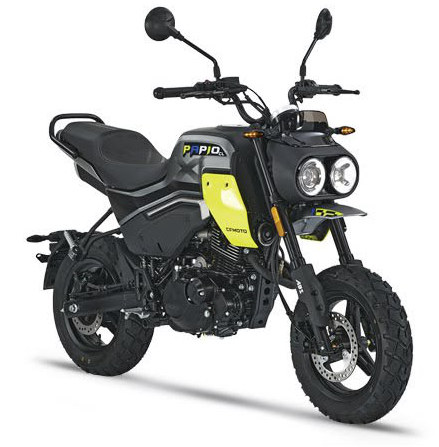
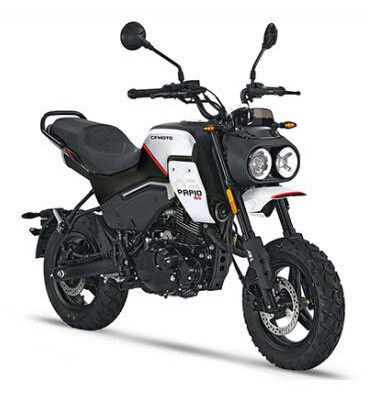
Fotos de motos según colores confirmados por el cliente

Changed region(s): [[0.0601, 0.0, 0.9617, 0.99], [0.8415, 0.6, 0.8716, 0.63], [0.571, 0.6, 0.6011, 0.63]]

diff --git a/assets/js/config.js b/assets/js/config.js
@@ -45,9 +45,9 @@ window.SORTEO = {
   premios: [
     { etiqueta: "Año 2026", titulo: "Cuadriciclo AU200", detalle: "Color blanco / naranja · Año 2026", imagen: "assets/img/premios/cuadriciclo-au200.jpg" },
     { etiqueta: "Año 2025", titulo: "Moto CF 125", detalle: "Color gris · Año 2025", imagen: "assets/img/premios/moto-cf125-gris.jpg" },
-    { etiqueta: "Año 2025", titulo: "Moto CF 125", detalle: "Color blanco · Año 2025", imagen: "assets/img/premios/moto-cf125-blanca-1.jpg" },
-    { etiqueta: "Año 2025", titulo: "Moto CF 125", detalle: "Color blanco · Año 2025", imagen: "assets/img/premios/moto-cf125-blanca-2.jpg" },
-    { etiqueta: "Año 2025", titulo: "Moto CF 125", detalle: "Color negro · Año 2025", imagen: "assets/img/premios/moto-cf125-gris.jpg" }
+    { etiqueta: "Año 2025", titulo: "Moto CF 125", detalle: "Color blanco · Año 2025", imagen: "assets/img/premios/moto-cf125-blanca.jpg" },
+    { etiqueta: "Año 2025", titulo: "Moto CF 125", detalle: "Color blanco · Año 2025", imagen: "assets/img/premios/moto-cf125-blanca.jpg" },
+    { etiqueta: "Año 2025", titulo: "Moto CF 125", detalle: "Color negro · Año 2025", imagen: "assets/img/premios/moto-cf125-negra.jpg" }
   ],
 
   contacto: {

diff --git a/NOTES.md b/NOTES.md
@@ -19,7 +19,7 @@ Sitio estático (HTML/CSS/JS vanilla) para GitHub Pages.
 
 ## Fotos de premios
 - Recortadas desde las imágenes del cliente → `assets/img/premios/` (motos CFMOTO Papio, cuadriciclo blanco/naranja)
-- No hay foto de la moto **negra**: usa la misma foto que la gris (`moto-cf125-gris.jpg`). Reemplazar si llega.
+- Asignación confirmada por el cliente (Vero, Tega Oil): blancas = Papio SS blanca (x2), gris = Papio blanca/negra, negra = Papio negra/amarilla
 
 El cliente confirmó (24/10/2026) que no hay más datos. Campos opcionales en `config.js` (hora, lugar, modalidad, N° CONAJZAR, redes) quedan vacíos y no se muestran; si llegan, se completan ahí y aparecen solos.
 
